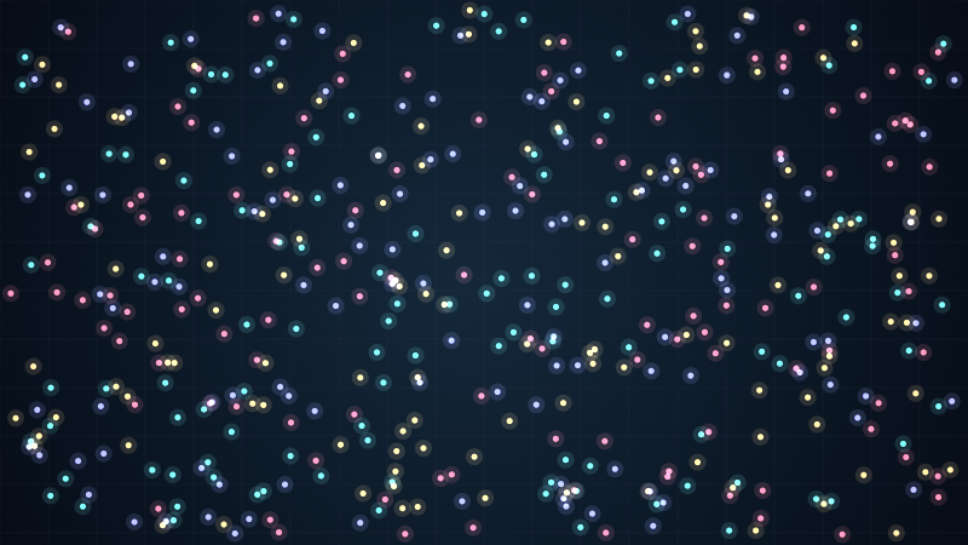
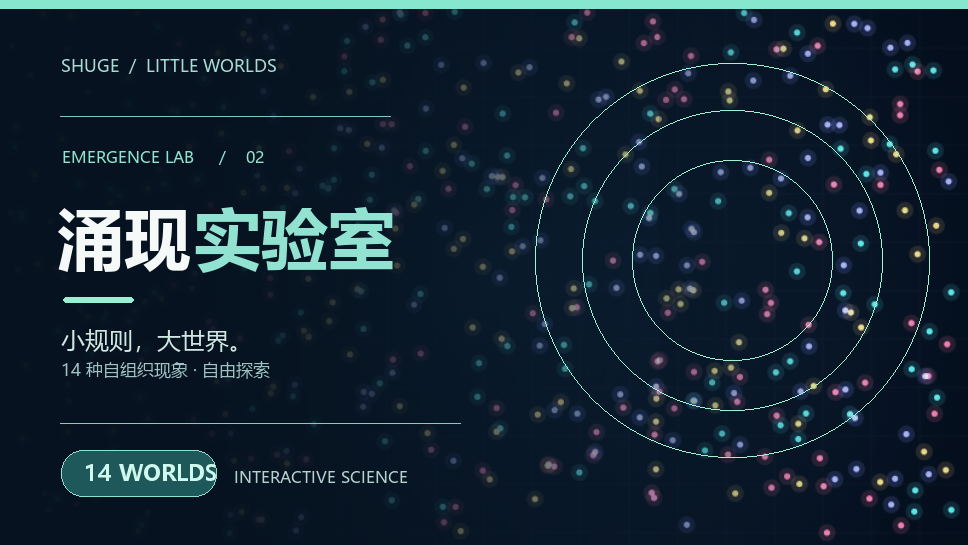
Release Emergence Lab V2: 14 worlds, clear parameter guidance, polished mobile UI

Changed region(s): [[0.0, 0.0, 1.0, 0.9982], [0.4029, 0.1248, 0.4339, 0.156]]

diff --git a/little-works/emergence-lab/models-extra.js b/little-works/emergence-lab/models-extra.js
@@ -1,0 +1,97 @@
+/* Emergence Lab II: seven additional original teaching models. No dependencies. */
+(()=>{'use strict';
+const cw=800,ch=450,TAU2=Math.PI*2;
+const cap=(v,a,b)=>Math.max(a,Math.min(b,v));
+const rv=(w,a,b)=>a+w.rng()*(b-a), ri=(w,n)=>Math.floor(w.rng()*n);
+const MODS={
+boids:{name:'自组织鸟群',kicker:'08 / COLLECTIVE MOTION',intro:'每一只鸟只遵守三条规则：避让、对齐、靠拢。',gesture:'↖ 点击召集鸟群',head:'每只鸟只看附近，\n整群却像一个生命。',body:'Boids：分离防止撞车式拥挤；对齐让邻居的方向趋同；凝聚让离散个体回到群体。没有领队，也没有全局路径。',
+tags:['Boids','群集行为','局部邻域'],try:'降低凝聚、提高对齐，观察群体会分散还是形成平行飞行的队伍。',
+params:[['align','方向对齐',0,2.2,1.05,.05,'提高使邻居飞行方向更一致'],['cohere','向群体靠拢',0,1.8,.55,.05,'提高促使局部小群抱团'],['separate','避免拥挤',.1,2.8,1.35,.05,'提高可减少挤成一团'],['reach','观察半径',25,105,58,1,'每只鸟能看到多远']]},
+reaction:{name:'化学花纹',kicker:'09 / REACTION DIFFUSION',intro:'两种物质一边反应一边扩散，斑点与迷宫自行生长。',gesture:'↖ 点击注入反应物 B',head:'无须绘画者，\n化学反应也会作画。',body:'简化 Gray–Scott 模型：A 与 B 在格子间扩散，同时 A + 2B → 3B，B 又逐渐被移除。两个小概率参数就能让均匀混合物长出不同花纹。',
+tags:['Gray–Scott','图灵式花纹','反应扩散'],try:'让补给率保持接近 0.036，逐步改变清除率，寻找斑点与条纹。',
+params:[['feed','物质 A 补给率',.018,.08,.036,.001,'持续为反应补充 A'],['kill','物质 B 清除率',.045,.075,.060,.001,'越高，B 越难维持'],['diff','扩散强度',.4,1.6,1,.05,'控制物质互相扩散的快慢']]},
+life:{name:'生命游戏',kicker:'10 / CELLULAR AUTOMATA',intro:'活细胞和空格，只通过八邻居决定下一代。',gesture:'↖ 点击绘制活细胞',head:'几条生死规则，\n就能让图案自己移动。',body:'康威生命游戏及其简单规则变体：默认活细胞拥有 2 或 3 个邻居便继续存活；空格拥有恰好 3 个邻居便出生。调整门槛探索振荡与滑翔结构。',
+tags:['康威生命游戏','细胞自动机','离散动力学'],try:'先使用标准 B3/S23，再把出生邻居数调到 4：原先活跃的区域会怎样？',
+params:[['birth','出生邻居数',2,5,3,1,'空格有恰好这个数量的活邻居时出生'],['surviveLo','存活下限',1,4,2,1,'活细胞至少需要这么多邻居'],['surviveHi','存活上限',2,6,3,1,'活细胞最多容忍这么多邻居'],['density','初始生命密度',.10,.43,.25,.01,'更改后重置生效']]},
+crystal:{name:'分形结晶',kicker:'11 / DIFFUSION LIMITED AGGREGATION',intro:'游走粒子只要接触到晶核，就有机会粘住。',gesture:'↖ 点击放入新晶核',head:'随机漫步的人群，\n竟然长出分形树。',body:'简化 DLA：游离粒子在网格中随机游走，靠近已有晶体时以一定概率粘附。新结晶又成为下一次的生长边界，形成由局部接触积累而成的枝杈。',
+tags:['DLA','随机游走','分形生长'],try:'让黏附概率从 0.2 提高到 0.95，比较晶体枝条是否更密。',
+params:[['stick','黏附概率',.1,1,.73,.05,'接触晶体后粘住的机会'],['walkers','游走粒子',15,110,64,5,'更改后重置生效'],['activity','生长尝试',80,900,480,20,'每帧做多少次随机走动']]},
+forest:{name:'森林火灾',kicker:'12 / EXCITABLE ECOSYSTEM',intro:'树会长、火会传、灰烬会恢复；一团火能变成一道火线。',gesture:'↖ 点击点燃附近树木',head:'每棵树只看邻居，\n一场大火却能横扫森林。',body:'简化森林火灾自动机：着火树在下一步烧尽，邻近树有概率被点燃；空地随机再生新树，偶尔有独立闪电。不同再生速度会改变大火的间隔和规模。',
+tags:['森林火灾模型','临界状态','波前传播'],try:'降低再生率，观察大火之后是否出现长期分割的空白带。',
+params:[['spread','火势蔓延概率',.15,1,.69,.05,'火传到邻树的机会'],['regrow','树木再生率',.002,.10,.028,.002,'空地重新长树的速度'],['lightning','随机闪电率',0,.002,.00025,.00005,'没有邻火也可能自己点燃']]},
+ants:{name:'蚂蚁觅食',kicker:'13 / COLLECTIVE FORAGING',intro:'找到食物的蚂蚁回家时留气味，同伴便逐渐走出路线。',gesture:'↖ 点击添加食物堆',head:'没谁知道最短路，\n小小气味却能引路。',body:'一种简化的蚁群寻食模型：出巢蚂蚁探索时探测回程蚂蚁留下的气味；找到食物后向巢穴返回并沿途留信号。路径不断增强，同时挥发消失。',
+tags:['蚁群优化启发','正反馈','气味挥发'],try:'逐渐调高挥发率，观察路径是保持清晰，还是需要不断重新探索。',
+params:[['wander','探索随机性',.06,1,.46,.05,'不确定方向时的游走幅度'],['follow','气味追随强度',.2,3,1.5,.1,'对气味较浓方向的偏爱'],['evap','气味挥发率',.005,.22,.045,.005,'气味每步损失的比例']]},
+traffic:{name:'幽灵堵车',kicker:'14 / STOP AND GO WAVES',intro:'封闭环路没有红灯，却可能出现倒退的堵车波。',gesture:'↖ 点击一辆车附近制造轻微刹车',head:'没有事故，\n车流也会自己堵住。',body:'环形单车道简化跟驰模型：每辆车只根据前车车距加速或刹车；偶尔的小幅随机减速可能放大，并以停停走走的车流波向后传播。',
+tags:['跟驰模型','自发拥堵','停止-启动波'],try:'让车辆密度不变，提升随机刹车概率。速度低谷会不会向后传播？',
+params:[['reaction','车距敏感度',.2,1.8,.95,.05,'遇到前车时有多谨慎'],['brake','随机刹车率',0,.18,.035,.005,'小扰动发生的概率'],['maxSpeed','期望车速',2,9,6,.5,'无车挡路时的最高移动速度'],['cars','道路车辆数',35,150,95,5,'更改后重置生效']]}
+};
+Object.assign(MODES,MODS);
+const originalWorld=newWorld;
+newWorld=function(which){
+ const w=originalWorld(which);if(!MODS[mode]||!Object.prototype.hasOwnProperty.call(MODS,mode))return w;
+ const p=(k)=>value(w,k);
+ if(mode==='boids'){w.points=[];for(let i=0;i<185;i++){const a=rv(w,0,TAU2);w.points.push({x:rv(w,20,cw-20),y:rv(w,20,ch-20),vx:Math.cos(a)*1.7,vy:Math.sin(a)*1.7})}}
+ if(mode==='reaction'){w.w=144;w.h=82;const n=w.w*w.h;w.ca=new Float32Array(n).fill(1);w.cb=new Float32Array(n);w.na=new Float32Array(n);w.nb=new Float32Array(n);for(let j=0;j<16;j++){let x=ri(w,w.w-20)+10,y=ri(w,w.h-20)+10;for(let dy=-2;dy<=2;dy++)for(let dx=-2;dx<=2;dx++){const i=(y+dy)*w.w+x+dx;w.cb[i]=rv(w,.72,.98);w.ca[i]=rv(w,.1,.38)}}w.points=[{x:0}]}
+ if(mode==='life'){w.w=120;w.h=68;w.cells=new Uint8Array(w.w*w.h);w.next=new Uint8Array(w.cells.length);for(let i=0;i<w.cells.length;i++)w.cells[i]=w.rng()<p('density')?1:0;w.points=[{x:0}]}
+ if(mode==='crystal'){w.w=160;w.h=90;w.cells=new Uint8Array(w.w*w.h);w.points=[];let x=w.w>>1,y=w.h>>1;w.cells[y*w.w+x]=1;w.radius=2;for(let i=0;i<p('walkers');i++)w.points.push({x:ri(w,w.w),y:ri(w,w.h)});w.mass=1;}
+ if(mode==='forest'){w.w=132;w.h=75;w.cells=new Uint8Array(w.w*w.h);w.next=new Uint8Array(w.cells.length);for(let i=0;i<w.cells.length;i++)w.cells[i]=w.rng()<.7?1:0;for(let i=0;i<90;i++)w.cells[ri(w,w.cells.length)]=2;w.points=[{x:0}];}
+ if(mode==='ants'){w.w=160;w.h=90;w.smell=new Float32Array(w.w*w.h);w.buffer=new Float32Array(w.smell.length);w.nest={x:cw/2,y:ch/2};w.food=[{x:120,y:100,n:120},{x:700,y:105,n:130},{x:160,y:355,n:110},{x:635,y:365,n:140}];w.delivered=0;w.points=[];for(let i=0;i<220;i++)w.points.push({x:w.nest.x+rv(w,-9,9),y:w.nest.y+rv(w,-9,9),angle:rv(w,0,TAU2),load:false});}
+ if(mode==='traffic'){w.points=[];const n=p('cars'),track=1400;for(let i=0;i<n;i++)w.points.push({pos:(i*track/n+rv(w,-1,1)+track)%track,v:rv(w,2,4.8),brake:0});w.track=track;}
+ return w;
+};
+const evolve={
+boids(w){const list=w.points,n=list.length,p=k=>value(w,k),r=p('reach'),r2=r*r,old=list.map(a=>({...a}));let meanSpeed=0;
+for(let i=0;i<n;i++){const b=old[i];let count=0,avx=0,avy=0,cx=0,cy=0,sx=0,sy=0;
+for(let j=0;j<n;j++){if(i===j)continue;const a=old[j];let dx=a.x-b.x,dy=a.y-b.y;if(dx>cw/2)dx-=cw;if(dx<-cw/2)dx+=cw;if(dy>ch/2)dy-=ch;if(dy<-ch/2)dy+=ch;const d2=dx*dx+dy*dy;if(d2>r2||d2<1)continue;count++;avx+=a.vx;avy+=a.vy;cx+=dx;cy+=dy;if(d2<625){sx-=dx/(d2+1);sy-=dy/(d2+1)}}
+let vx=b.vx,vy=b.vy;if(count){vx+=(avx/count-b.vx)*p('align')*.052+cx/count*p('cohere')*.014+sx*p('separate')*.8;vy+=(avy/count-b.vy)*p('align')*.052+cy/count*p('cohere')*.014+sy*p('separate')*.8;}
+const d=Math.hypot(vx,vy)||1,s=cap(d,.9,2.9);vx=vx/d*s;vy=vy/d*s;list[i].vx=vx;list[i].vy=vy;list[i].x=(b.x+vx+cw)%cw;list[i].y=(b.y+vy+ch)%ch;meanSpeed+=s;}
+w.metric=meanSpeed/n;},
+reaction(w){const ww=w.w,hh=w.h,feed=value(w,'feed'),kill=value(w,'kill'),d=value(w,'diff');for(let z=0;z<2;z++){const a=w.ca,b=w.cb,na=w.na,nb=w.nb;for(let y=1;y<hh-1;y++)for(let x=1;x<ww-1;x++){const i=y*ww+x,A=a[i],B=b[i],reaction=A*B*B;const la=a[i-1]+a[i+1]+a[i-ww]+a[i+ww]-4*A,lb=b[i-1]+b[i+1]+b[i-ww]+b[i+ww]-4*B;na[i]=cap(A+d*.17*la-reaction+feed*(1-A),0,1);nb[i]=cap(B+d*.085*lb+reaction-(kill+feed)*B,0,1)}
+for(let x=0;x<ww;x++){const top=x,bot=(hh-1)*ww+x;na[top]=a[top];nb[top]=b[top];na[bot]=a[bot];nb[bot]=b[bot]}for(let y=0;y<hh;y++){const lo=y*ww,hi=lo+ww-1;na[lo]=a[lo];nb[lo]=b[lo];na[hi]=a[hi];nb[hi]=b[hi]}w.ca=na;w.cb=nb;w.na=a;w.nb=b;}
+let sum=0;for(let i=0;i<w.cb.length;i+=7)sum+=w.cb[i];w.metric=sum/(w.cb.length/7);},
+life(w){const a=w.cells,b=w.next,ww=w.w,hh=w.h,birth=value(w,'birth'),lo=Math.min(value(w,'surviveLo'),value(w,'surviveHi')),hi=Math.max(value(w,'surviveLo'),value(w,'surviveHi'));let alive=0;
+for(let y=0;y<hh;y++)for(let x=0;x<ww;x++){let cnt=0;for(let dy=-1;dy<=1;dy++)for(let dx=-1;dx<=1;dx++){if(!dx&&!dy)continue;cnt+=a[((y+dy+hh)%hh)*ww+(x+dx+ww)%ww]}const i=y*ww+x;b[i]=a[i]?(cnt>=lo&&cnt<=hi?1:0):(cnt===birth?1:0);alive+=b[i]}w.next=a;w.cells=b;w.metric=alive;},
+crystal(w){const g=w.cells,ww=w.w,hh=w.h,centerX=ww>>1,centerY=hh>>1;const chance=value(w,'stick');let stuck=0;for(let z=0;z<value(w,'activity');z++){const a=w.points[ri(w,w.points.length)],step=ri(w,4);a.x=cap(a.x+(step===0?1:step===1?-1:0),1,ww-2);a.y=cap(a.y+(step===2?1:step===3?-1:0),1,hh-2);const i=a.y*ww+a.x;if(g[i])continue;let neighbor=g[i-1]||g[i+1]||g[i-ww]||g[i+ww];if(neighbor&&w.rng()<chance){g[i]=1;w.mass++;stuck++;const radius=Math.hypot(a.x-centerX,a.y-centerY);w.radius=Math.max(w.radius,radius);const angle=rv(w,0,TAU2),outer=Math.min(Math.min(ww,hh)*.49,w.radius+8);a.x=cap(Math.floor(centerX+Math.cos(angle)*outer),1,ww-2);a.y=cap(Math.floor(centerY+Math.sin(angle)*outer),1,hh-2)}else if(w.rng()<.007||Math.hypot(a.x-centerX,a.y-centerY)>w.radius+17){const theta=rv(w,0,TAU2),radius=Math.min(hh*.46,w.radius+6);a.x=cap(Math.floor(centerX+Math.cos(theta)*radius),1,ww-2);a.y=cap(Math.floor(centerY+Math.sin(theta)*radius),1,hh-2)}}w.metric=w.mass;},
+forest(w){const ww=w.w,hh=w.h,g=w.cells,b=w.next,pSpread=value(w,'spread'),regrow=value(w,'regrow'),lightning=value(w,'lightning');let burning=0;for(let y=0;y<hh;y++)for(let x=0;x<ww;x++){const i=y*ww+x,v=g[i];if(v===2){b[i]=0;continue}if(v===0){b[i]=w.rng()<regrow?1:0;continue}let around=0;for(let dy=-1;dy<=1;dy++)for(let dx=-1;dx<=1;dx++){if(!dx&&!dy)continue;let xx=x+dx,yy=y+dy;if(xx>=0&&xx<ww&&yy>=0&&yy<hh&&g[yy*ww+xx]===2)around++}let burn=w.rng()<(around?1-Math.pow(1-pSpread,around):lightning);b[i]=burn?2:1;if(burn)burning++}w.next=g;w.cells=b;w.metric=burning;},
+ants(w){const gw=w.w,gh=w.h,sm=w.smell,buf=w.buffer,p=k=>value(w,k);
+const sample=(x,y,a)=>{const xx=cap(Math.floor((x+Math.cos(a)*14)/5),0,gw-1),yy=cap(Math.floor((y+Math.sin(a)*14)/5),0,gh-1);return sm[yy*gw+xx]};
+for(const a of w.points){if(a.load){a.angle=Math.atan2(w.nest.y-a.y,w.nest.x-a.x)+rv(w,-.22,.22);const k=cap(Math.floor(a.y/5),0,gh-1)*gw+cap(Math.floor(a.x/5),0,gw-1);sm[k]=Math.min(22,sm[k]+2.8);if(Math.hypot(a.x-w.nest.x,a.y-w.nest.y)<16){w.delivered++;a.load=false;a.angle=rv(w,0,TAU2);}}else{const l=sample(a.x,a.y,a.angle-.6),f=sample(a.x,a.y,a.angle),r=sample(a.x,a.y,a.angle+.6);if(l>f&&l>r)a.angle-=.20*p('follow');else if(r>f&&r>l)a.angle+=.20*p('follow');a.angle+=rv(w,-.32,.32)*p('wander');for(const f of w.food){if(f.n>0&&Math.hypot(a.x-f.x,a.y-f.y)<16){f.n--;a.load=true;break}}}
+a.x+=Math.cos(a.angle)*2.9;a.y+=Math.sin(a.angle)*2.9;if(a.x<2||a.x>cw-2||a.y<2||a.y>ch-2){a.x=cap(a.x,3,cw-3);a.y=cap(a.y,3,ch-3);a.angle+=Math.PI*.75}}
+for(let y=1;y<gh-1;y++)for(let x=1;x<gw-1;x++){const k=y*gw+x;buf[k]=(sm[k]*.55+(sm[k-1]+sm[k+1]+sm[k-gw]+sm[k+gw])*.1125)*(1-p('evap'))}w.smell=buf;w.buffer=sm;w.metric=w.delivered;},
+traffic(w){const cars=w.points,L=w.track,p=k=>value(w,k);cars.sort((a,b)=>a.pos-b.pos);let total=0,stopped=0;const gaps=cars.map((a,i)=>((cars[(i+1)%cars.length].pos-a.pos+L)%L));for(let i=0;i<cars.length;i++){const a=cars[i],gap=gaps[i],safe=5+p('reaction')*a.v*1.7;if(w.rng()<p('brake'))a.v=Math.max(0,a.v-rv(w,.5,2.2));else a.v=Math.min(p('maxSpeed'),a.v+.2);a.v=Math.min(a.v,Math.max(0,(gap-safe)*.9));if(a.v<1.25)stopped++;total+=a.v;}for(const a of cars)a.pos=(a.pos+a.v)%L;w.metric=total/cars.length;w.stopped=stopped;}
+};
+Object.assign(steppers,evolve);
+function colorGrid(ctx,w,palette,data){const ww=w.w,hh=w.h;if(!w.off){w.off=document.createElement('canvas');w.off.width=ww;w.off.height=hh;w.offCtx=w.off.getContext('2d',{alpha:false});w.offImg=w.offCtx.createImageData(ww,hh)}const im=w.offImg;for(let i=0;i<data.length;i++){const rgb=palette[data[i]]||palette[0],j=i*4;im.data[j]=rgb[0];im.data[j+1]=rgb[1];im.data[j+2]=rgb[2];im.data[j+3]=255}w.offCtx.putImageData(im,0,0);ctx.imageSmoothingEnabled=false;ctx.drawImage(w.off,0,0,cw,ch);ctx.imageSmoothingEnabled=true;}
+function renderNew(w,canvas){
+ const ctx=canvas.getContext('2d',{alpha:false});ctx.fillStyle='#071422';ctx.fillRect(0,0,cw,ch);ctx.lineWidth=1;ctx.strokeStyle='#ffffff08';
+ for(let x=0;x<=cw;x+=40){ctx.beginPath();ctx.moveTo(x,0);ctx.lineTo(x,ch);ctx.stroke()}for(let y=0;y<=ch;y+=40){ctx.beginPath();ctx.moveTo(0,y);ctx.lineTo(cw,y);ctx.stroke()}
+ if(mode==='boids'){for(const a of w.points){const len=Math.hypot(a.vx,a.vy),dx=a.vx/len,dy=a.vy/len;ctx.save();ctx.translate(a.x,a.y);ctx.rotate(Math.atan2(dy,dx));ctx.fillStyle='#9cebdc';ctx.shadowColor='#9cebdc';ctx.shadowBlur=7;ctx.beginPath();ctx.moveTo(7,0);ctx.lineTo(-5,-3.5);ctx.lineTo(-3,0);ctx.lineTo(-5,3.5);ctx.closePath();ctx.fill();ctx.restore()}}
+ if(mode==='reaction'){if(!w.off){w.off=document.createElement('canvas');w.off.width=w.w;w.off.height=w.h;w.offCtx=w.off.getContext('2d',{alpha:false});w.offImg=w.offCtx.createImageData(w.w,w.h)}const im=w.offImg;for(let i=0;i<w.cb.length;i++){let v=cap(w.cb[i]*3,0,1),a=w.ca[i],k=i*4;im.data[k]=Math.round(8+v*210);im.data[k+1]=Math.round(19+v*165+a*5);im.data[k+2]=Math.round(34+(1-v)*60+v*64);im.data[k+3]=255;}w.offCtx.putImageData(im,0,0);ctx.imageSmoothingEnabled=true;ctx.drawImage(w.off,0,0,cw,ch);}
+ if(mode==='life')colorGrid(ctx,w,[[6,19,32],[129,235,208]],w.cells);
+ if(mode==='crystal'){colorGrid(ctx,w,[[6,18,33],[129,209,242]],w.cells);ctx.shadowColor='#8edbef';ctx.shadowBlur=25;ctx.fillStyle='#ecf8fc';ctx.beginPath();ctx.arc(cw/2,ch/2,5,0,TAU2);ctx.fill();ctx.shadowBlur=0;for(const a of w.points){ctx.fillStyle='#f6c98d7e';ctx.fillRect(a.x*cw/w.w,a.y*ch/w.h,2,2)}}
+ if(mode==='forest')colorGrid(ctx,w,[[16,29,42],[69,149,106],[251,134,84]],w.cells);
+ if(mode==='ants'){if(!w.off){w.off=document.createElement('canvas');w.off.width=w.w;w.off.height=w.h;w.offCtx=w.off.getContext('2d',{alpha:false});w.offImg=w.offCtx.createImageData(w.w,w.h)}const im=w.offImg;for(let i=0;i<w.smell.length;i++){let v=cap(w.smell[i]/6,0,1),k=i*4;im.data[k]=Math.floor(7+v*20);im.data[k+1]=Math.floor(20+v*131);im.data[k+2]=Math.floor(35+v*110);im.data[k+3]=255}w.offCtx.putImageData(im,0,0);ctx.drawImage(w.off,0,0,cw,ch);ctx.fillStyle='#f5bd83';for(const food of w.food)if(food.n>0){ctx.beginPath();ctx.arc(food.x,food.y,8+Math.sqrt(food.n),0,TAU2);ctx.globalAlpha=.6;ctx.fill();ctx.globalAlpha=1;}ctx.fillStyle='#a9f1dd';ctx.beginPath();ctx.arc(w.nest.x,w.nest.y,14,0,TAU2);ctx.fill();for(const a of w.points){ctx.fillStyle=a.load?'#f4dcad':'#a3e1e3';ctx.fillRect(a.x,a.y,2.5,2.5)}}
+ if(mode==='traffic'){ctx.fillStyle='#152b39';ctx.beginPath();ctx.ellipse(400,225,318,173,0,0,TAU2);ctx.fill();ctx.fillStyle='#071422';ctx.beginPath();ctx.ellipse(400,225,251,107,0,0,TAU2);ctx.fill();ctx.strokeStyle='#a6ccd350';ctx.setLineDash([13,16]);ctx.lineWidth=2;ctx.beginPath();ctx.ellipse(400,225,285,140,0,0,TAU2);ctx.stroke();ctx.setLineDash([]);for(const a of w.points){const ang=a.pos/w.track*TAU2,x=400+285*Math.cos(ang),y=225+140*Math.sin(ang);ctx.save();ctx.translate(x,y);ctx.rotate(Math.atan2(140*Math.cos(ang),-285*Math.sin(ang)));ctx.fillStyle=a.v<1.5?'#ff8f97':a.v<3.2?'#f1c782':'#a8e9d3';ctx.shadowColor=ctx.fillStyle;ctx.shadowBlur=5;ctx.fillRect(-6,-3,12,6);ctx.restore();}ctx.font='12px ui-monospace,Consolas';ctx.textAlign='center';ctx.fillStyle='#94bdc1';ctx.fillText('STOP · AND · GO',400,226);}
+}
+const oldDraw=draw;draw=function(w,canvas){if(MODS[mode])return renderNew(w,canvas);return oldDraw(w,canvas);};
+const oldMetrics=metrics;metrics=function(){if(!MODS[mode])return oldMetrics();if(!worldA)return;const w=worldA;let entries=[],v=w.metric||0;
+switch(mode){case'boids':entries=[['鸟群个体',w.points.length],['平均速度',v.toFixed(2)],['演化步数',w.age]];break;
+case'reaction':entries=[['平均 B 浓度',v.toFixed(3)],['网格数量',w.w*w.h],['反应步数',w.age]];break;
+case'life':entries=[['活细胞',v],['覆盖率',(v/w.cells.length*100).toFixed(1)+'%'],['代数',w.age]];break;
+case'crystal':entries=[['晶体像素',w.mass],['生长半径',w.radius.toFixed(1)],['游走粒子',w.points.length]];break;
+case'forest':entries=[['燃烧树木',v],['森林覆盖',w.cells.reduce((s,a)=>s+(a===1),0)],['演化步数',w.age]];break;
+case'ants':entries=[['带回食物',w.delivered],['出巢蚂蚁',w.points.length],['剩余食物',w.food.reduce((s,f)=>s+f.n,0)]];break;
+case'traffic':entries=[['平均车速',v.toFixed(2)],['低速车辆',w.stopped||0],['车辆总数',w.points.length]];break;}
+const host=$('metrics');host.replaceChildren(...entries.map(([k,v])=>{const row=document.createElement('div');row.className='metric';const a=document.createElement('span'),b=document.createElement('strong');a.textContent=k;b.textContent=v;row.append(a,b);return row;}));$('count').textContent=(mode==='traffic'?w.points.length:mode==='boids'||mode==='ants'?w.points.length:w.w*w.h)+' 个体 / 格点';metricTrail.push(Number(w.metric)||0);if(metricTrail.length>100)metricTrail.shift();
+const c=$('spark'),ctx=c.getContext('2d'),width=c.width,height=c.height;ctx.fillStyle='#0d1e30';ctx.fillRect(0,0,width,height);let min=Math.min(...metricTrail),max=Math.max(...metricTrail);ctx.beginPath();metricTrail.forEach((n,i)=>{let x=i/(Math.max(99,metricTrail.length-1))*width,y=height-9-(n-min)/(max-min||1)*(height-18);if(i)ctx.lineTo(x,y);else ctx.moveTo(x,y)});ctx.lineWidth=2;ctx.strokeStyle='#95e3d4';ctx.stroke();
+};
+const oldInteract=interact;interact=function(e,canvas){if(!MODS[mode])return oldInteract(e,canvas);const rect=canvas.getBoundingClientRect(),x=cap((e.clientX-rect.left)/rect.width*cw,0,cw-1),y=cap((e.clientY-rect.top)/rect.height*ch,0,ch-1),w=canvas===$('a')?worldA:worldB;if(!w)return;
+if(mode==='boids'){for(let j=0;j<16;j++){const a=rv(w,0,TAU2);w.points.push({x:cap(x+rv(w,-25,25),0,cw),y:cap(y+rv(w,-25,25),0,ch),vx:Math.cos(a),vy:Math.sin(a)})}if(w.points.length>400)w.points.splice(0,16);}
+if(mode==='reaction'){const gx=Math.floor(x/cw*w.w),gy=Math.floor(y/ch*w.h);for(let dy=-4;dy<=4;dy++)for(let dx=-4;dx<=4;dx++){let xx=gx+dx,yy=gy+dy;if(xx<2||yy<2||xx>=w.w-2||yy>=w.h-2||dx*dx+dy*dy>16)continue;const k=yy*w.w+xx;w.ca[k]=.14;w.cb[k]=.95;}}
+if(mode==='life'||mode==='forest'){let gx=Math.floor(x/cw*w.w),gy=Math.floor(y/ch*w.h);for(let dy=-2;dy<=2;dy++)for(let dx=-2;dx<=2;dx++){let xx=gx+dx,yy=gy+dy;if(xx<0||yy<0||xx>=w.w||yy>=w.h||dx*dx+dy*dy>5)continue;w.cells[yy*w.w+xx]=mode==='forest'?2:1;}}
+if(mode==='crystal'){let gx=Math.floor(x/cw*w.w),gy=Math.floor(y/ch*w.h);for(let dy=-1;dy<=1;dy++)for(let dx=-1;dx<=1;dx++){let xx=gx+dx,yy=gy+dy;if(xx>0&&yy>0&&xx<w.w-1&&yy<w.h-1){w.cells[yy*w.w+xx]=1;w.radius=Math.max(w.radius,Math.hypot(xx-w.w/2,yy-w.h/2))}}}
+if(mode==='ants'){if(w.food.length>12)w.food.shift();w.food.push({x,y,n:100})}
+if(mode==='traffic'){const angle=Math.atan2((y-225)/140,(x-400)/285),position=((angle+TAU2)%TAU2)/TAU2*w.track;for(const a of w.points){let d=Math.abs(a.pos-position);d=Math.min(d,w.track-d);if(d<45)a.v=.1;}}
+};
+})();

diff --git a/little-works/emergence-lab/help-ui.js b/little-works/emergence-lab/help-ui.js
@@ -1,0 +1,119 @@
+/* Plain-language rule explanations, tutorial affordances, presets and mode hints. */
+(()=>{'use strict';
+const EXPLAIN={
+particles:{
+attract:['红色会更用力追逐青色，常出现更快的追逐链。','红色追逐减弱，颜色更容易分散。','观察红色是否总跟在青色后面。'],
+avoid:['青色更主动远离红色，追逃差异被放大。','青色更愿意与红色混在一起。','把红追青设高、青躲红也设高，比较两侧。'],
+reach:['每个粒子能受到更远同伴的影响，群体联系更密。','只感知身边很近的粒子，容易碎成局部小群。','距离不等于速度，改变的是相互作用的范围。'],
+motion:['粒子每步移动更远，碰撞与追逐变化更快。','粒子移动更慢，形态更容易观察。','它不会直接改变谁喜欢谁。']},
+neighbors:{
+min:['居民需要更多同色邻居才满意，搬迁通常更多。','比较容易满意，可能形成更混合的街区。','如果下限大于上限，可能没有人能满意。'],
+max:['允许住在更密集的同色街区。','即使同类太多也不满意，可能出现碎花纹。','试试“恰好 3 个”：将上下限都设为 3。'],
+vacancy:['空房更多，搬迁更容易，但居民总数更少。','空间拥挤、选择更少，可能长期不满意。','此值只改变开局，请点重置。'],
+moves:['每一步检查更多居民，格局重排得更快。','居民搬家更慢，适合仔细观察迁移过程。','这个值主要改变推进速度，而非满意标准。']},
+slime:{
+sense:['能“闻到”更远的气味，可能更早转弯。','只看眼前的气味，探索更局部。','过远不一定更好：可能错过短距离分叉。'],
+turn:['对侧方气味更敏感，路径转弯更急。','运动更直，曲折和改道速度可能降低。','气味网络也可能因太敏感而不稳定。'],
+fade:['旧气味保存更久，既有通路更稳定。','旧气味消失快，需要持续通过才能维护路线。','它是保留比例：越接近 1 越不容易挥发。'],
+speed:['小点走得更快，网络刷新更迅速。','小点走得慢，更容易看到细小分叉。','过快可能跨过狭窄气味带。']},
+ecology:{
+birth:['向空白格扩张更容易，边界可能迅速推进。','繁殖变慢，种群可能更容易消失。','只有相邻位置空着，才能繁殖。'],
+hunt:['遇到能战胜的对手时更容易发生捕食。','物种间进攻减弱，领地边界变化更慢。','本模型捕食后会先出现空位。'],
+swap:['不同种群更容易交换位置，边界更混杂。','种群更固定，可能形成清晰的大块领地。','移动不改变“谁克谁”的关系。'],
+ticks:['每个画面批次计算更多局部交互，变化更快。','每次只计算少量交互，适合看边界演化。','它调整演化量，不直接提高繁殖概率。']},
+sand:{
+cluster:['虫子更偏向在已有沙堆附近放沙。','沙更可能零散放置，堆积效率下降。','这里控制放沙偏好，不是虫子数量。'],
+wander:['虫子一次能走更远，搬运覆盖面扩大。','虫子只在近处活动，沙堆更局部。','走得远不等于更会分类。'],
+bugs:['初始搬运虫更多，整体整理速度可能更快。','初始虫子少，搬运速度可能降低。','需要重置生效。'],
+activity:['每一步允许更多捡沙、放沙尝试。','放慢动作次数，便于观察沙堆变化。','它是模拟工作量，不是自然时间。']},
+fireflies:{
+couple:['邻居闪光会更明显地提前自己的相位。','闪光影响变弱，更接近各自独立闪烁。','强同步不保证所有局部区域同时闪。'],
+range:['看得见更远同伴，跨区域同步更有机会。','只会被很近的同伴带节奏，可能形成多个区域。','比较小范围和大范围的同步指数。'],
+variance:['每只虫自带节奏的差异更大，同步更困难。','天然周期更接近，整体更容易合拍。','改变周期差异需重置以重新生成个体。'],
+density:['同时存在更多萤火虫，潜在邻居也更多。','个体稀疏，闪光影响的传播机会减少。','需要重置生效。']},
+evolution:{
+food:['每步补充食物更多，可能支持更大种群。','环境更稀缺，生存和繁殖难度提高。','快速增殖不一定意味着特征更优。'],
+cost:['移动的能量开销更大，快个体可能更吃亏。','移动更便宜，快个体更容易持续觅食。','观察长期平均速度，而非单步波动。'],
+mutation:['后代性状和亲代差异更大，探索更广。','后代更接近亲代，变化较慢。','高变异不保证有利。'],
+awareness:['能发现更远的食物，觅食路径可能更直接。','只有很近才能看见食物，搜索更随机。','感知越广不一定性价比越高。']},
+boids:{
+align:['邻居方向更一致，容易出现同向飞行。','每只鸟方向更独立，队形容易散乱。','对齐不是让所有鸟都飞向同一目标。'],
+cohere:['更努力接近局部群体中心，群体较紧。','靠拢减弱，局部鸟群可能拆散。','凝聚过强可能使鸟群过密。'],
+separate:['近距离避让更强，不容易挤在一起。','容易挤成高密度群，甚至短暂重叠。','这是三条 Boids 规则中的“个人空间”。'],
+reach:['每只鸟看见更多邻居，动作更协调。','只响应附近的小群，可能分成独立队伍。','对照两侧不同感知距离的队形。']},
+reaction:{
+feed:['A 不断补充得更快，可能改变斑点大小和形态。','A 补充放慢，现有花纹可能停滞或消失。','花纹随参数非线性变化，并非越大越复杂。'],
+kill:['B 被移除得更快，色块可能缩小或消失。','B 存在更久，可能拓展或合并成图案。','把它和补给率组合调整最有效。'],
+diff:['物质在邻格间更快均匀化，细节可能变粗。','物质传播更慢，局部差异更明显。','这里 A/B 的相对扩散系数保持不变。']},
+life:{
+birth:['空格需要更多活邻居才会出生，新增通常更少。','较稀疏也能出生，增长可能更激烈。','标准规则出生数 = 3。'],
+surviveLo:['活细胞必须更拥挤才能存活，稀疏处更容易死。','独处的细胞更容易留下来。','标准规则存活下限 = 2。'],
+surviveHi:['拥挤区域更能存活。','太挤时细胞会死亡，空洞可能增多。','标准规则存活上限 = 3。'],
+density:['初始活细胞更多，碰撞与出生更频繁。','初始稀疏，图案更容易相互隔离。','需要重置才能重新生成初始布局。']},
+crystal:{
+stick:['遇到晶体就更容易粘附，分叉可能更密。','更常绕过晶体继续漂移，生长速度下降。','密不密也受接触位置和随机游走影响。'],
+walkers:['同时有更多游走粒子尝试靠近晶体。','粒子少，晶体可能长得更慢。','需要重置。'],
+activity:['每一步安排更多游走尝试，生长更快。','每一步更少尝试，便于观察枝杈生长。','它主要改变模拟推进速度。']},
+forest:{
+spread:['树靠近火焰时更容易点燃，火线蔓延快。','火更难跨过树间空隙，大片火灾减少。','观察不同火线形状和空地。'],
+regrow:['烧尽空地更快长树，下一场火可能更早发生。','森林恢复慢，空带阻隔火势更久。','不是越快恢复就越安全。'],
+lightning:['更多树可能无邻火自行点燃，火源增加。','更少出现无外部传播的新火点。','设为 0 可仅观察已有火源传播。']},
+ants:{
+follow:['蚂蚁更愿意沿浓气味走，路径可能快速强化。','更自由随机探索，路线不够稳定。','过于追随可能被旧路线误导。'],
+evap:['气味更快消失，过时路径清除快但路线难维持。','气味维持更久，常走的路更容易保留。','看能否从杂乱游走中生成通道。'],
+wander:['蚂蚁转向更随机，探索范围增大。','更少乱转，路径更直但容易陷入固定路线。','随机探索与追随气味需要平衡。']},
+traffic:{
+cars:['车辆增加，车距缩短，扰动更可能造成拥堵。','道路更空，车流通常更顺畅。','需要重置后重新布置车辆。'],
+maxSpeed:['空旷时能跑得更快，但追上前车也更快。','最高车速低，前后车速度差可能缩小。','最高车速不是实际平均速度。'],
+brake:['更常出现无事故的小减速，可能形成堵车波。','随机干扰少，车流更稳定。','观察低速车辆数量。'],
+reaction:['司机更注意车距，提前减速而避免贴得太近。','更敢靠近前车，密集车流更敏感。','该模型是简化跟驰规则。']}
+};
+const oldSetupUI=setupUI;
+setupUI=function(){oldSetupUI();enhanceControls();updateGuide()};
+function impact(id){return EXPLAIN[mode]?.[id]||['提高会强化当前规则的作用。','降低会弱化当前规则的作用。','推荐一次只改变一条规则。']}
+function enhanceControls(){
+ const host=$('controls');if(!host)return;
+ const old=$('parameter-guide');if(old)old.remove();
+ const head=document.createElement('div');head.id='parameter-guide';head.className='parameter-guide';head.innerHTML='<div class="guide-icon">?</div><div><strong>每个滑块会改变什么？</strong><p>展开参数下方的「为什么」，先预测结果，再实际验证。<br>↑ 和 ↓ 表示调高或调低时可能出现的变化。</p></div>';host.before(head);
+ const elements=host.querySelectorAll('.control');
+ MODES[mode].params.forEach((param,i)=>{const [key,label,min,max,base,step,hint]=param;const el=elements[i];if(!el)return;const input=el.querySelector('input');if(!input)return;
+ const [up,down,tip]=impact(key);
+ const hints=document.createElement('div');hints.className='impact-hints';
+ const higher=document.createElement('div');higher.className='impact-row';const downer=document.createElement('div');downer.className='impact-row';
+ higher.innerHTML='<span class="direction up">↑ 调高</span><span></span>';downer.innerHTML='<span class="direction down">↓ 调低</span><span></span>';higher.children[1].textContent=up;downer.children[1].textContent=down;hints.append(higher,downer);
+ const detail=document.createElement('details');detail.className='why-detail';const summary=document.createElement('summary');summary.textContent='为什么会这样？';const p=document.createElement('p');p.textContent=tip;detail.append(summary,p);
+ const meter=document.createElement('div');meter.className='range-scale';meter.innerHTML='<span>弱 / 少</span><span>强 / 多</span>';
+ el.append(meter,hints,detail);
+ let badge=document.createElement('span');badge.className='value-badge';badge.textContent='';el.querySelector('label').append(badge);
+ const set=()=>{const n=Number(input.value),fraction=(n-min)/(max-min||1);badge.textContent=fraction<.3?'较低':fraction>.7?'较高':'中等';el.style.setProperty('--level',(fraction*100)+'%');const isInit=['vacancy','bugs','density'].includes(key)||mode==='crystal'&&key==='walkers'||mode==='traffic'&&key==='cars';const isReset=(mode==='life'&&key==='density')||(mode==='neighbors'&&key==='vacancy')||(mode==='fireflies'&&key==='density')||(mode==='sand'&&key==='bugs')||(mode==='crystal'&&key==='walkers')||(mode==='traffic'&&key==='cars');
+ if(isReset){el.dataset.reset='true';if(!el.querySelector('.reset-hint')){const span=document.createElement('div');span.className='reset-hint';span.textContent='↺ 需要点击「重置」才会改变开局';el.append(span)}}else{el.dataset.reset='false'} };
+ input.addEventListener('input',()=>{set();updateGuide(key,input.value)});
+ set();
+ });
+}
+function updateGuide(key,value){const host=$('rule-guide');if(!host)return;const def=MODES[mode];let first=def.params[0],name=key||first[0],p=def.params.find(x=>x[0]===name)||first;
+ const [up,down,tip]=impact(name);
+ host.querySelector('strong').textContent=key?'正在改变：'+p[1]:'观察这个实验';
+ host.querySelector('p').textContent=key?'现在改动的是「'+p[1]+'」。建议暂停观察一会儿，再开启 A/B 对照验证差异。':'推荐从「'+first[1]+'」开始：只改变这一个参数，观察画面与指标。';
+}
+const originalSelectMode=selectMode;
+selectMode=function(next){originalSelectMode(next);updateGuide();decorateNav();};
+function decorateNav(){document.querySelectorAll('#nav button').forEach((button,i)=>{button.dataset.ordinal=String(i+1).padStart(2,'0');button.setAttribute('title',MODES[button.dataset.mode]?.intro||'');});const h=$('world-counter');if(h)h.textContent=Object.keys(MODES).length.toString().padStart(2,'0')+' WORLDS';}
+function addGuide(){const sidebar=document.querySelector('.sidebar');const after=sidebar?.querySelector('p');if(after){const guide=document.createElement('div');guide.id='rule-guide';guide.className='rule-guide';guide.innerHTML='<span class="rule-guide-label">先猜，再实验</span><strong>观察这个实验</strong><p>只改变一个参数，再观察会发生什么。</p><div class="rule-guide-actions"><button type="button" id="quick-ab">⇄ 做一次 A/B 比较</button><button type="button" id="randomize">⚄ 随机参数</button></div>';after.after(guide)}
+ const nav=document.getElementById('nav');if(nav){const top=document.createElement('div');top.className='nav-heading';top.innerHTML='<span>EXPLORE THE WORLDS <b>/ 点击一个世界开始探索</b></span><span id="world-counter">14 WORLDS</span>';nav.before(top)}
+ const mast=document.querySelector('.hero .orb');if(mast)mast.innerHTML='14<small>WORLDS</small>';
+ const footer=document.querySelector('footer');if(footer){const source=document.createElement('div');source.className='research-note';source.innerHTML='<strong>14 个模型 · 14 种局部规则</strong><span>实验属于教学模拟，不等同于自然与社会系统的精确预测。参考 <a href="https://ccl.netlogo.org/netlogo/models/" target="_blank" rel="noopener">NetLogo</a>、<a href="https://www.complexity-explorables.org/topics/" target="_blank" rel="noopener">Complexity Explorables</a>、<a href="https://lifelabs.online/en/experiments" target="_blank" rel="noopener">LifeLabs</a> 的交互研究思路。</span>';footer.before(source);}
+ document.getElementById('quick-ab')?.addEventListener('click',()=>{const checkbox=$('compare');if(!checkbox.checked){checkbox.checked=true;checkbox.dispatchEvent(new Event('change',{bubbles:true}))}document.getElementById('abEdit')?.scrollIntoView({behavior:matchMedia('(prefers-reduced-motion: reduce)').matches?'auto':'smooth',block:'nearest'});});
+ document.getElementById('randomize')?.addEventListener('click',()=>{for(const row of MODES[mode].params){const [key,,lo,hi,base,step]=row;let n=Math.round((lo+Math.random()*(hi-lo))/step)*step;params[key]=Number(Math.max(lo,Math.min(hi,n)).toFixed(5));}defaultB();setupUI();init();toast('参数已随机生成；试着观察有什么意外。')});
+}
+Object.assign(PRESETS,{
+boids:{align:1.8,cohere:.34,separate:1.9,reach:88},
+reaction:{feed:.044,kill:.064,diff:1.1},
+life:{birth:3,surviveLo:2,surviveHi:3,density:.31},
+crystal:{stick:.97,walkers:95,activity:750},
+forest:{spread:.95,regrow:.012,lightning:.0001},
+ants:{follow:2.6,evap:.018,wander:.22},
+traffic:{cars:115,maxSpeed:8,brake:.13,reaction:.75}
+});
+addGuide();setupUI();decorateNav();
+})();

diff --git a/little-works/emergence-lab/lab-v2.css b/little-works/emergence-lab/lab-v2.css
@@ -1,0 +1,82 @@
+/* Emergence Lab / second collection design system — progressive enhancements */
+:root{--ink:#eef8fa;--muted:#9aafba;--teal:#a0efdc;--amber:#f6c89a}
+body{background:radial-gradient(ellipse 70% 38% at 74% 6%,#1b3249 0%,transparent 75%),radial-gradient(ellipse 65% 40% at 0% 33%,#142c2c66 0%,transparent 70%),#070e1b}
+.top{background:#0b1523e8;backdrop-filter:blur(15px);border-bottom:1px solid #9de8dc1c}
+.hero{position:relative;min-height:305px}
+.hero:after{content:"";position:absolute;inset:8% 6% 8% auto;width:26%;opacity:.3;pointer-events:none;background:radial-gradient(circle at 50% 50%,#7ffdd41a 0%,transparent 65%)}
+.hero h1{font-weight:660;letter-spacing:-.075em}
+.hero .orb{font-weight:270;box-shadow:0 0 105px #7fdbcb1a,inset 0 0 45px #5acdb222}
+.hero .orb:after{content:"";position:absolute;inset:-20px;border:1px solid #9ae9cf24;border-radius:50%;transform:rotate(29deg) scaleY(.83)}
+.nav-heading{display:flex;justify-content:space-between;align-items:center;gap:15px;margin:27px 2px 10px;color:#d4efee;font:700 11px ui-monospace,Consolas,monospace;letter-spacing:.15em}
+.nav-heading b{color:#6e8b99;font-weight:400}.nav-heading>span:last-child{color:#a8e5d9;background:#163539;padding:6px 12px;border-radius:100px;border:1px solid #80d9bb44}
+.nav{margin-top:0;row-gap:10px}
+.nav button{position:relative;min-height:100px;transition:background .22s,transform .22s,border-color .22s,box-shadow .22s;overflow:hidden;background:linear-gradient(155deg,#182638,#101b2a)}
+.nav button:before{content:"";position:absolute;inset:0 0 auto 0;height:2px;background:linear-gradient(90deg,transparent,#6ed9bd,transparent);opacity:0;transition:opacity .2s}
+.nav button.selected:before{opacity:1}
+.nav button:nth-child(7n + 2):before{background:linear-gradient(90deg,transparent,#e6ae9b,transparent)}
+.nav button:nth-child(7n + 3):before{background:linear-gradient(90deg,transparent,#abdca2,transparent)}
+.nav button:nth-child(7n + 4):before{background:linear-gradient(90deg,transparent,#c9b8ff,transparent)}
+.nav button:nth-child(7n + 5):before{background:linear-gradient(90deg,transparent,#f4d09c,transparent)}
+.nav button.selected{box-shadow:inset 0 0 30px #5ebbae14,0 12px 40px #04121988}
+.nav button:hover{background:#20374a}
+.nav small{margin-bottom:12px;letter-spacing:.05em}
+.nav strong{font-size:13px}
+.nav span{color:#8faeb4}
+.nav button[data-ordinal]:after{content:attr(data-ordinal);position:absolute;right:12px;top:8px;font:10px ui-monospace,Consolas,monospace;color:#e7f9ec1c;pointer-events:none}
+.card{background:linear-gradient(135deg,#16293b,#0c1727 80%);border-color:#9dccd51d;box-shadow:0 12px 35px #020c1761}
+.simulation{border:1px solid #92dbcd38}
+.sim-head h2{font-size:29px}
+.panels .view{background:#061420;border:1px solid #95d5d72b}
+.viewbar{background:linear-gradient(90deg,#133342,#0c1b2d)}
+.viewbar>span:first-child{font-weight:650}
+.toolbar{border-top:1px solid #91d5d718}
+.toolbar button{transition:border-color .16s,transform .16s,background .16s}
+.toolbar button:active,.actions button:active{transform:translateY(1px)}
+.toolbar button.primary{box-shadow:0 2px 14px #7addb538}
+.sidebar{background:linear-gradient(163deg,#152c3c,#0d1b2c 64%);border-color:#8bc5ce38;align-self:start}
+.sidebar>.eyebrow{color:#a7eddd}
+.sidebar h3{font-size:25px}
+.rule-guide{background:radial-gradient(circle at 100% 0%,#68dbc123,transparent 70%),#112b36;border:1px solid #82dec94a;border-radius:10px;padding:14px;margin:4px 0 20px}
+.rule-guide-label{color:#a4e6d4;font:700 9px ui-monospace,Consolas,monospace;letter-spacing:.17em;display:block;margin-bottom:7px}
+.rule-guide strong{color:#f0f6eb;font-size:13px}
+.rule-guide p{color:#9fb9bd;font-size:11px;line-height:1.8;margin:6px 0 12px}
+.rule-guide-actions{display:flex;gap:7px;flex-wrap:wrap}
+.rule-guide-actions button{border:1px solid #88bcb255;background:#1b3b44;border-radius:6px;color:#b6efe0;font-size:11px;padding:9px;flex:1;white-space:nowrap}
+.rule-guide-actions button:hover{background:#28515b}
+.parameter-guide{display:flex;align-items:flex-start;gap:11px;padding:12px 0 15px;margin-bottom:9px;border-top:1px solid #ffffff1b}
+.guide-icon{background:#8ee5ca20;border:1px solid #9ee7d47e;border-radius:50%;width:25px;height:25px;flex:0 0 25px;display:grid;place-items:center;font-weight:800;color:#acebd8}
+.parameter-guide strong{color:#d4ede7;font-size:12px}
+.parameter-guide p{color:#86a5b2;line-height:1.65;font-size:10px;margin:5px 0 0}
+#controls{gap:11px}
+.control{padding:13px 13px 15px;margin:0 -5px;background:linear-gradient(135deg,#192f3fbb,#0c1c2bbb);border:1px solid #85afbd2a;border-radius:9px}
+.control:hover{border-color:#8cd6c060}
+.control label{align-items:baseline;gap:6px}
+.control label>span:first-child{color:#d9e8e8;font-weight:580}
+.control label output{margin-left:auto;white-space:nowrap;color:#d0f8e9;font-weight:700;font-size:12px}
+.value-badge{font:9px ui-monospace,Consolas,monospace;color:#ffd9a8;background:#5f4b2c48;padding:3px 5px;border-radius:4px;white-space:nowrap}
+.control>input[type=range]{display:block;margin:11px 0 2px;accent-color:#a8eacb;cursor:ew-resize}
+.range-scale{display:flex;justify-content:space-between;color:#5f8493;font:9px ui-monospace,Consolas,monospace;margin-top:-1px}
+.control>small{display:block;color:#7da5b1;font-size:10px;line-height:1.65;margin-top:10px}
+.impact-hints{display:grid;gap:6px;padding-top:11px;margin-top:10px;border-top:1px dashed #7798a63d}
+.impact-row{display:grid;grid-template-columns:48px 1fr;gap:7px;align-items:start;color:#c2d5d7;font-size:11px;line-height:1.6}
+.direction{font:700 10px ui-monospace,Consolas,monospace;letter-spacing:-.01em;padding:2px 4px;white-space:nowrap;border-radius:4px}
+.direction.up{background:#3e806c3c;color:#a6f2d4}
+.direction.down{background:#89693b32;color:#f0d4a8}
+.why-detail{margin-top:12px;border:1px solid #8eb5bb28;background:#091a28cc;border-radius:6px;color:#b3d8da}
+.why-detail summary{list-style:revert;padding:7px 11px;font-size:10px;cursor:pointer;color:#9bcfc9}
+.why-detail p{padding:0 10px 10px;margin:0;font-size:11px;line-height:1.75;color:#aec9cf}
+.reset-hint{margin-top:10px;color:#efc990;font-size:10px}
+#abEdit{border:1px solid #ecd7a765;background:linear-gradient(130deg,#3d343446,#1c304580);border-radius:10px;margin-top:20px}
+.ab-edit select{color:#e9f6ef}
+.ab-edit input{accent-color:#efd0a0}
+.explain{grid-template-columns:190px 1fr 1fr;border-top-color:#9bd8d536;margin-top:38px}
+.challenge{background:linear-gradient(90deg,#51be9d16,transparent)}
+#tryButton{display:inline-block;background:#a5eacb;border:0;border-radius:6px;color:#092a29;font-size:11px;padding:10px 14px;font-weight:650;margin-top:13px}
+#tryButton:hover{background:#d1ffe7}
+.research-note{padding:18px 2px 24px;margin-top:18px;border-bottom:1px solid #99d4cd2e;display:flex;gap:18px;align-items:baseline;flex-wrap:wrap;color:#7897a2;font-size:11px;line-height:1.8}
+.research-note strong{color:#b8e4de}.research-note a{color:#d9c899;text-decoration:underline;text-decoration-color:#bba16b66;text-underline-offset:3px}
+#favorites button{display:block;background:#1d3544;border:1px solid #a2e3d333;padding:8px;border-radius:6px;font-size:11px;color:#bce9dd;margin:7px 0;text-align:left;width:100%}
+#favorites button:hover{border-color:#b0e8d9}
+@media(max-width:850px){.nav{gap:8px}.nav button{min-width:157px}.sidebar{display:block}.sidebar>.eyebrow,.sidebar h3,.sidebar>p,#controls,#abEdit,#favorites,.separator,.side-title,.actions,#toast{grid-column:auto}.explain{grid-template-columns:1fr 1fr}}
+@media(max-width:550px){.nav-heading{margin:18px 4px 9px;font-size:9px}.nav-heading b{display:none}.nav-heading>span:last-child{font-size:9px;padding:5px 7px}.nav button{min-width:143px;min-height:101px}.nav strong{font-size:12px}.nav small{font-size:8px}.hero h1{font-size:53px}.sidebar{padding:21px 14px}.rule-guide{padding:13px 11px}.control{margin:0;padding:13px}.impact-row{font-size:10px}.parameter-guide{padding-top:15px}.sim-head h2{font-size:23px}.explain{grid-template-columns:1fr}.research-note{font-size:10px}.research-note strong{display:block;width:100%}}
+@media(prefers-reduced-motion:reduce){.nav button,.toolbar button{transition:none}}

diff --git a/little-works/emergence-lab/index.html b/little-works/emergence-lab/index.html
@@ -1,8 +1,8 @@
-<!doctype html><html lang="zh-CN"><head><meta charset="utf-8"><meta name="viewport" content="width=device-width,initial-scale=1,viewport-fit=cover"><meta name="theme-color" content="#09121b"><title>涌现实验室 · EMERGENCE LAB</title><link rel="stylesheet" href="styles.css"></head><body>
+<!doctype html><html lang="zh-CN"><head><meta charset="utf-8"><meta name="viewport" content="width=device-width,initial-scale=1,viewport-fit=cover"><meta name="theme-color" content="#09121b"><title>涌现实验室 · EMERGENCE LAB</title><link rel="stylesheet" href="styles.css"><link rel="stylesheet" href="lab-v2.css"></head><body>
 <header class="top"><a href="../">✳ SHUGE <span>/ LITTLE WORLDS</span></a><span class="status">● SIMULATION ENGINE / 01</span><a href="../">返回小作品 ↗</a></header>
 <main><section class="hero"><div><div class="eyebrow">FIELD NOTES / NO. 002 — INTERACTIVE SCIENCE</div><h1>涌现<span>实验室</span><em>.</em></h1><p>没有指挥官，没有总设计师。<br>每个小生命只遵守自己的规则，秩序却悄悄诞生。</p></div><div class="hero-art"><div class="orb">07<small>WORLDS</small></div><small>CHANGE ONE RULE.<br>WATCH A WORLD CHANGE.</small></div></section>
-<nav id="nav" class="nav" aria-label="选择实验"><button class="selected" data-mode="particles"><small>01 / PHYSICS</small><strong>彩色粒子汤</strong><span>吸引与排斥</span></button><button data-mode="neighbors"><small>02 / SOCIAL</small><strong>挑剔的邻居</strong><span>偏好与聚落</span></button><button data-mode="slime"><small>03 / NETWORK</small><strong>发光菌丝</strong><span>气味与路径</span></button><button data-mode="ecology"><small>04 / ECOLOGY</small><strong>三色战争</strong><span>循环捕食</span></button><button data-mode="sand"><small>05 / AGENTS</small><strong>搬沙虫</strong><span>局部整理</span></button><button data-mode="fireflies"><small>06 / RHYTHM</small><strong>萤火虫</strong><span>同步之光</span></button><button data-mode="evolution"><small>07 / LIFE</small><strong>最小进化池</strong><span>生存与遗传</span></button></nav>
+<nav id="nav" class="nav" aria-label="选择实验"><button class="selected" data-mode="particles"><small>01 / PHYSICS</small><strong>彩色粒子汤</strong><span>吸引与排斥</span></button><button data-mode="neighbors"><small>02 / SOCIAL</small><strong>挑剔的邻居</strong><span>偏好与聚落</span></button><button data-mode="slime"><small>03 / NETWORK</small><strong>发光菌丝</strong><span>气味与路径</span></button><button data-mode="ecology"><small>04 / ECOLOGY</small><strong>三色战争</strong><span>循环捕食</span></button><button data-mode="sand"><small>05 / AGENTS</small><strong>搬沙虫</strong><span>局部整理</span></button><button data-mode="fireflies"><small>06 / RHYTHM</small><strong>萤火虫</strong><span>同步之光</span></button><button data-mode="evolution"><small>07 / LIFE</small><strong>最小进化池</strong><span>生存与遗传</span></button><button data-mode="boids"><small>08 / SWARM</small><strong>自组织鸟群</strong><span>群体飞行</span></button><button data-mode="reaction"><small>09 / CHEMISTRY</small><strong>化学花纹</strong><span>反应与扩散</span></button><button data-mode="life"><small>10 / AUTOMATA</small><strong>生命游戏</strong><span>格子生死</span></button><button data-mode="crystal"><small>11 / FRACTAL</small><strong>分形结晶</strong><span>随机粘附</span></button><button data-mode="forest"><small>12 / WILDFIRE</small><strong>森林火灾</strong><span>传播与再生</span></button><button data-mode="ants"><small>13 / FORAGING</small><strong>蚂蚁觅食</strong><span>气味寻路</span></button><button data-mode="traffic"><small>14 / TRAFFIC</small><strong>幽灵堵车</strong><span>拥堵波</span></button></nav>
 <section class="app"><div class="simulation card"><div class="sim-head"><div><span id="kicker" class="eyebrow">01 / EMERGENT MOTION</span><h2 id="heading">彩色粒子汤</h2></div><div class="sim-health"><span id="count">480 个体</span><span id="live">● 运行中</span></div></div><div class="sim-caption"><span id="intro">让不同颜色互相吸引或排斥，观察它们会形成怎样的结构。</span><span id="gesture">↖ 点击投入个体</span></div><div id="panels" class="panels"><div class="view"><div class="viewbar"><span>● WORLD A <i> / 基准世界</i></span><span id="seedDisplay">SEED 2408</span></div><canvas id="a" aria-label="模拟世界 A" width="800" height="450"></canvas><div class="viewfoot" id="footA">在画布上点击或拖动以交互</div></div><div class="view" id="viewB"><div class="viewbar"><span>● WORLD B <i> / 改变一条规则</i></span><span>A ↔ B</span></div><canvas id="b" aria-label="模拟世界 B" width="800" height="450"></canvas><div class="viewfoot" id="footB">共享随机初始状态</div></div></div><div class="toolbar"><div><button id="play" class="primary">Ⅱ 暂停</button><button id="step">↦ 单步</button><button id="reset">↺ 重置</button><button id="reroll">⚄ 换一局</button></div><div><label>速度 <span id="speedOut">1.0×</span> <input type="range" min=".25" max="3" step=".25" value="1" id="speed"></label><label class="check"><input type="checkbox" id="compare"> A/B 对照</label></div></div></div>
 <aside class="card sidebar"><div class="eyebrow">YOUR EXPERIMENT</div><h3>操纵世界</h3><p>调一个旋钮，看看会发生什么。</p><div id="controls"></div><div class="separator"></div><div class="side-title">观察笔记 <span>LIVE DATA</span></div><div id="metrics"></div><canvas id="spark" width="420" height="90" aria-label="实验指标历史"></canvas><div class="separator"></div><div class="side-title">实验配方 <span>REPRODUCIBLE</span></div><div class="actions"><button id="save">☆ 收藏配方</button><button id="share">↗ 分享链接</button><button id="export">↓ 导出 JSON</button></div><div id="favorites"></div><div id="toast" role="status" aria-live="polite"></div></aside></section>
 <section class="explain"><div class="eyebrow">HOW IT WORKS <span>/ READ THE RULES</span></div><h2 id="ruleHead">不需要领袖，<br>也能组成队伍。</h2><div><p id="ruleBody"></p><div id="tags"></div><div class="challenge"><small>试试这个 ↗</small><p id="tryIt"></p><button id="tryButton" type="button">一键尝试这个变化 ↗</button></div></div></section>
-<footer><span>© SHUGE · EMERGENCE LAB / 2026</span><span>没有剧本的世界 · 只有会演化的规则</span><a href="../">更多小作品 ↗</a></footer></main><script src="app.js"></script></body></html>
+<footer><span>© SHUGE · EMERGENCE LAB / 2026</span><span>没有剧本的世界 · 只有会演化的规则</span><a href="../">更多小作品 ↗</a></footer></main><script src="app.js"></script><script src="models-extra.js"></script><script src="help-ui.js"></script></body></html>

diff --git a/little-works/emergence-lab/README.md b/little-works/emergence-lab/README.md
@@ -2,14 +2,15 @@
 
 鼠哥星系 / 小作品的第二个公开作品（2026-10-22）。
 
-七个独立、可交互的局部规则模拟：彩色粒子汤、挑剔的邻居、发光菌丝、三色生态战争、搬沙虫、萤火虫同步、最小进化池。
+十四个独立、可交互的局部规则模拟：原有的彩色粒子汤、挑剔的邻居、发光菌丝、三色生态战争、搬沙虫、萤火虫同步、最小进化池；V2 增加自组织鸟群（Boids）、化学花纹（Gray–Scott）、生命游戏、分形结晶（DLA）、森林火灾、蚂蚁觅食、幽灵堵车。
 
 ## 操作
 
-- 在顶部切换七个世界；通过右侧参数滑块改变规则；画布支持鼠标或触摸点击、拖动投放。
+- 在顶部切换十四个世界；通过右侧参数滑块改变规则；每个参数都有「↑ 调高」「↓ 调低」的影响说明和可展开的原因解释；画布支持鼠标或触摸点击、拖动投放。
 - 播放 / 暂停 / 单步 / 重置 / 新随机种子 / 速度调节。
 - 打开 A/B 后自动同步两个世界的初始随机种子，B 世界只改变该模块第一个参数；画面上下（手机）或左右（桌面）比较。
 - 页尾提供规则解释、一键实验挑战；侧栏实时指标、配方收藏与恢复、复制分享链接及 JSON 导出。
+- V2 提供一键开启 A/B 比较、随机生成参数和初始条件参数的「重置生效」提示，桌面和手机均适配。
 
 ## 说明与局限
 
@@ -22,11 +23,18 @@
 - https://particle-life.com/about/implementations.html
 - https://ccl.netlogo.org/netlogo/models/Segregation
 - https://github.com/nicoptere/physarum
+- https://ccl.netlogo.org/netlogo/models/
+- https://www.complexity-explorables.org/topics/
+- https://lifelabs.online/en/experiments
 
-只借鉴模拟范式和交互启发，不包含上述项目源码。
+只借鉴模拟范式和交互启发，不包含上述项目源码。V2 的模型均为教学近似实现，非实验或社会结果的精确预测。
 
 ## 运行与验收
 
 纯 HTML/CSS/JavaScript，无编译依赖。直接打开 index.html 可本机使用；如果希望分享链接，请从 GitHub Pages 的 HTTPS 地址访问。
 
-本地 QA：node little-works/emergence-lab/qa.cjs，在 Windows Edge 无界面模式测试 1440 / 390 / 320px、七种模式、基本控制与 A/B，以及浏览器错误。
+本地基础 QA：`node little-works/emergence-lab/qa.cjs` 测试原七模型。V2 QA：`node little-works/emergence-lab/qa-v2.cjs`，Windows Edge 无界面测试 1440 / 390 / 320px，全部十四模型、参数解释、基本控制、A/B、公平随机起点、手机布局，全部通过，无页面脚本异常及横向溢出。
+
+行为 QA：`node little-works/emergence-lab/qa-v2.cjs`，十四种模拟同种子 A/B 初始画布像素相同、推进 12 步产生实际演化并出现因规则不同的画面差异。加长行为 QA：`node little-works/emergence-lab/qa-v2-long.cjs`，十四模型分别推进 100–260 步、无异常数值；可验证蚂蚁成功送回食物、交通出现低速车群及单参数 A/B 编辑。
+
+公开版（2026-10-22）：https://ndshuge.github.io/ndshuge-galaxy/little-works/emergence-lab/ 。`node little-works/emergence-lab/public-smoke.cjs` 验证公开地址 HTTP 200、7 模式、2 画布、目录卡片和交互无错误；`public-layout-check.cjs` 验证线上 375px 的移动端面板宽度、无横向溢出。发布时保持了既有“小作品”目录其他条目不变。
